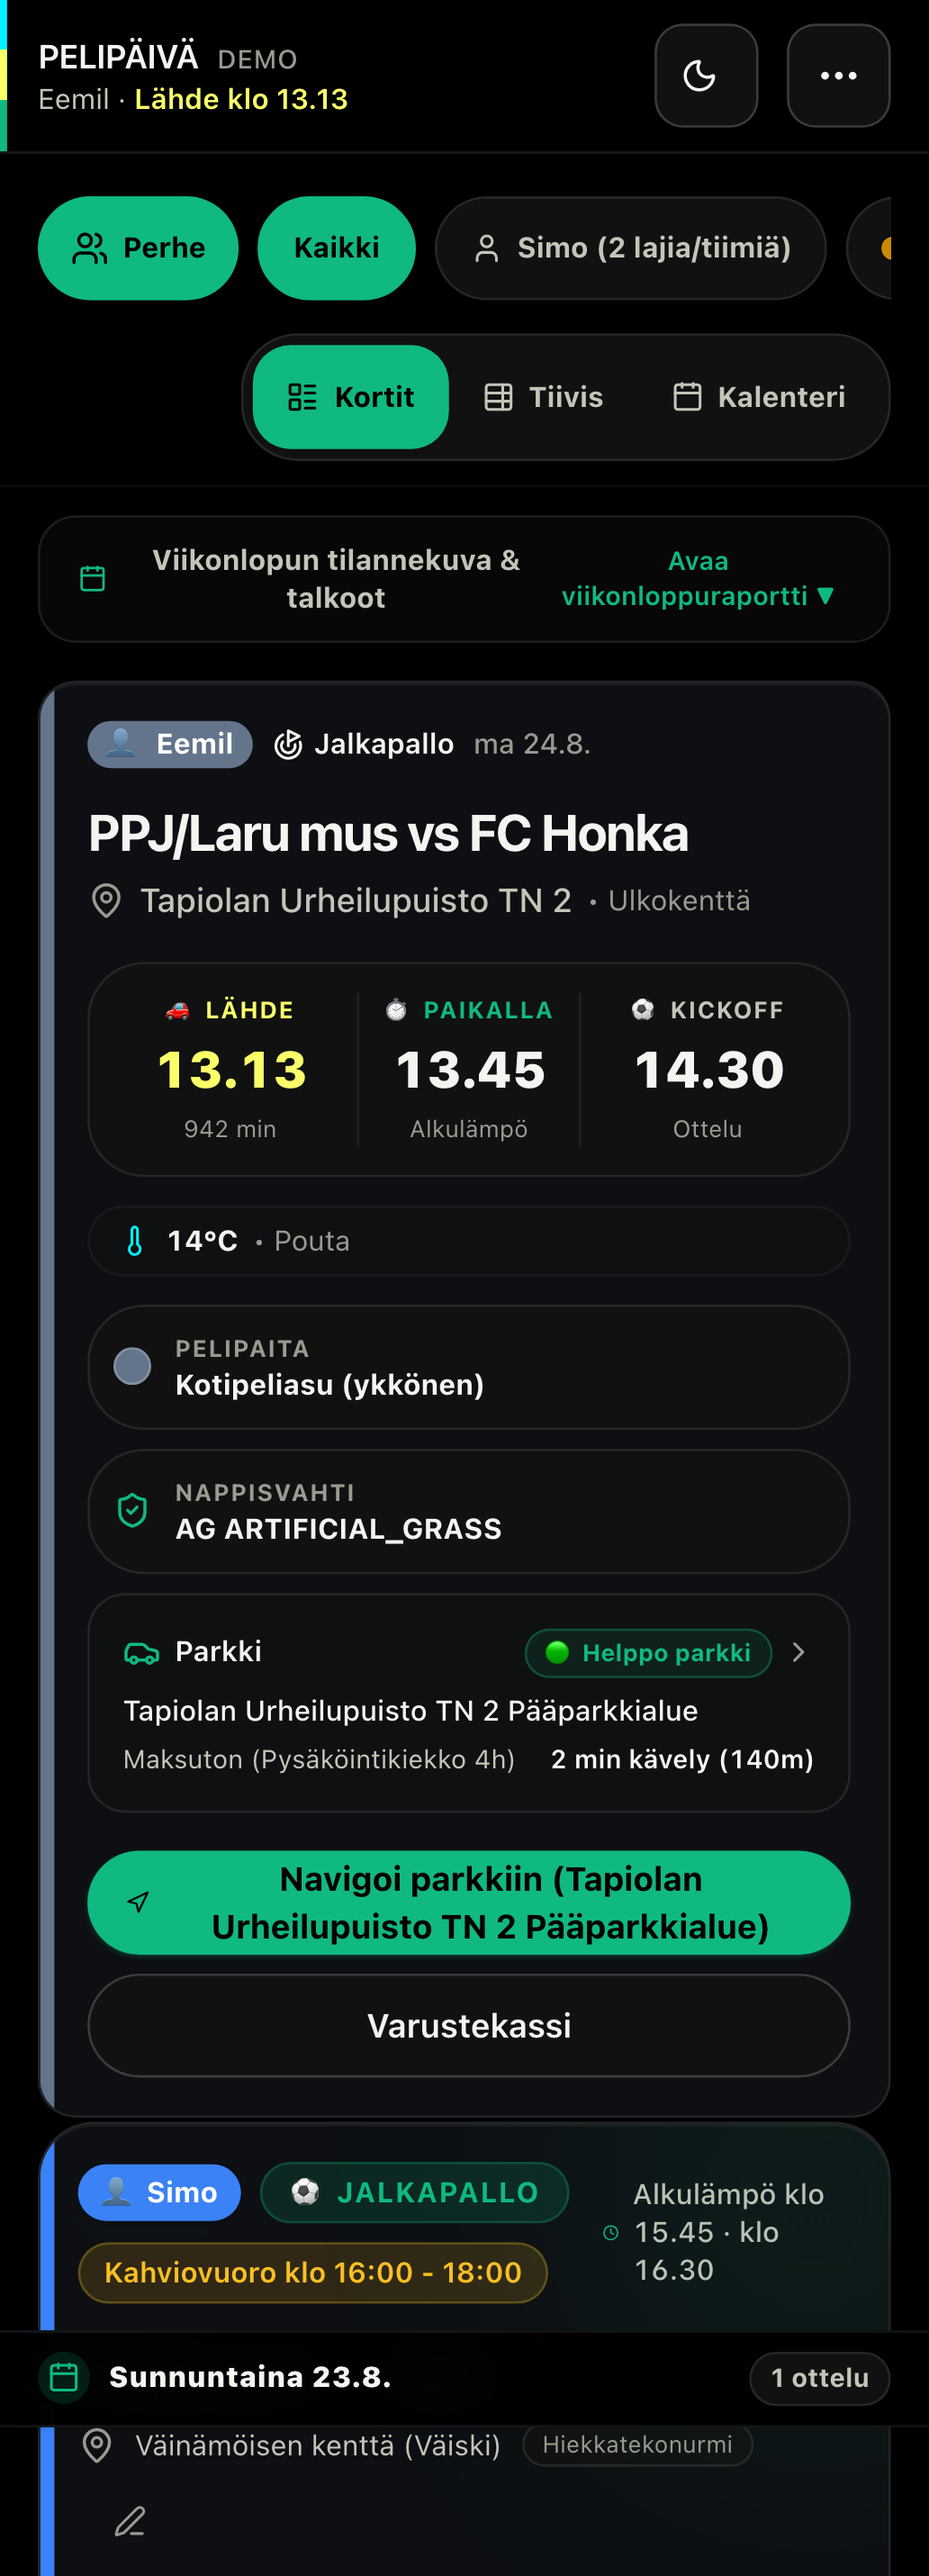
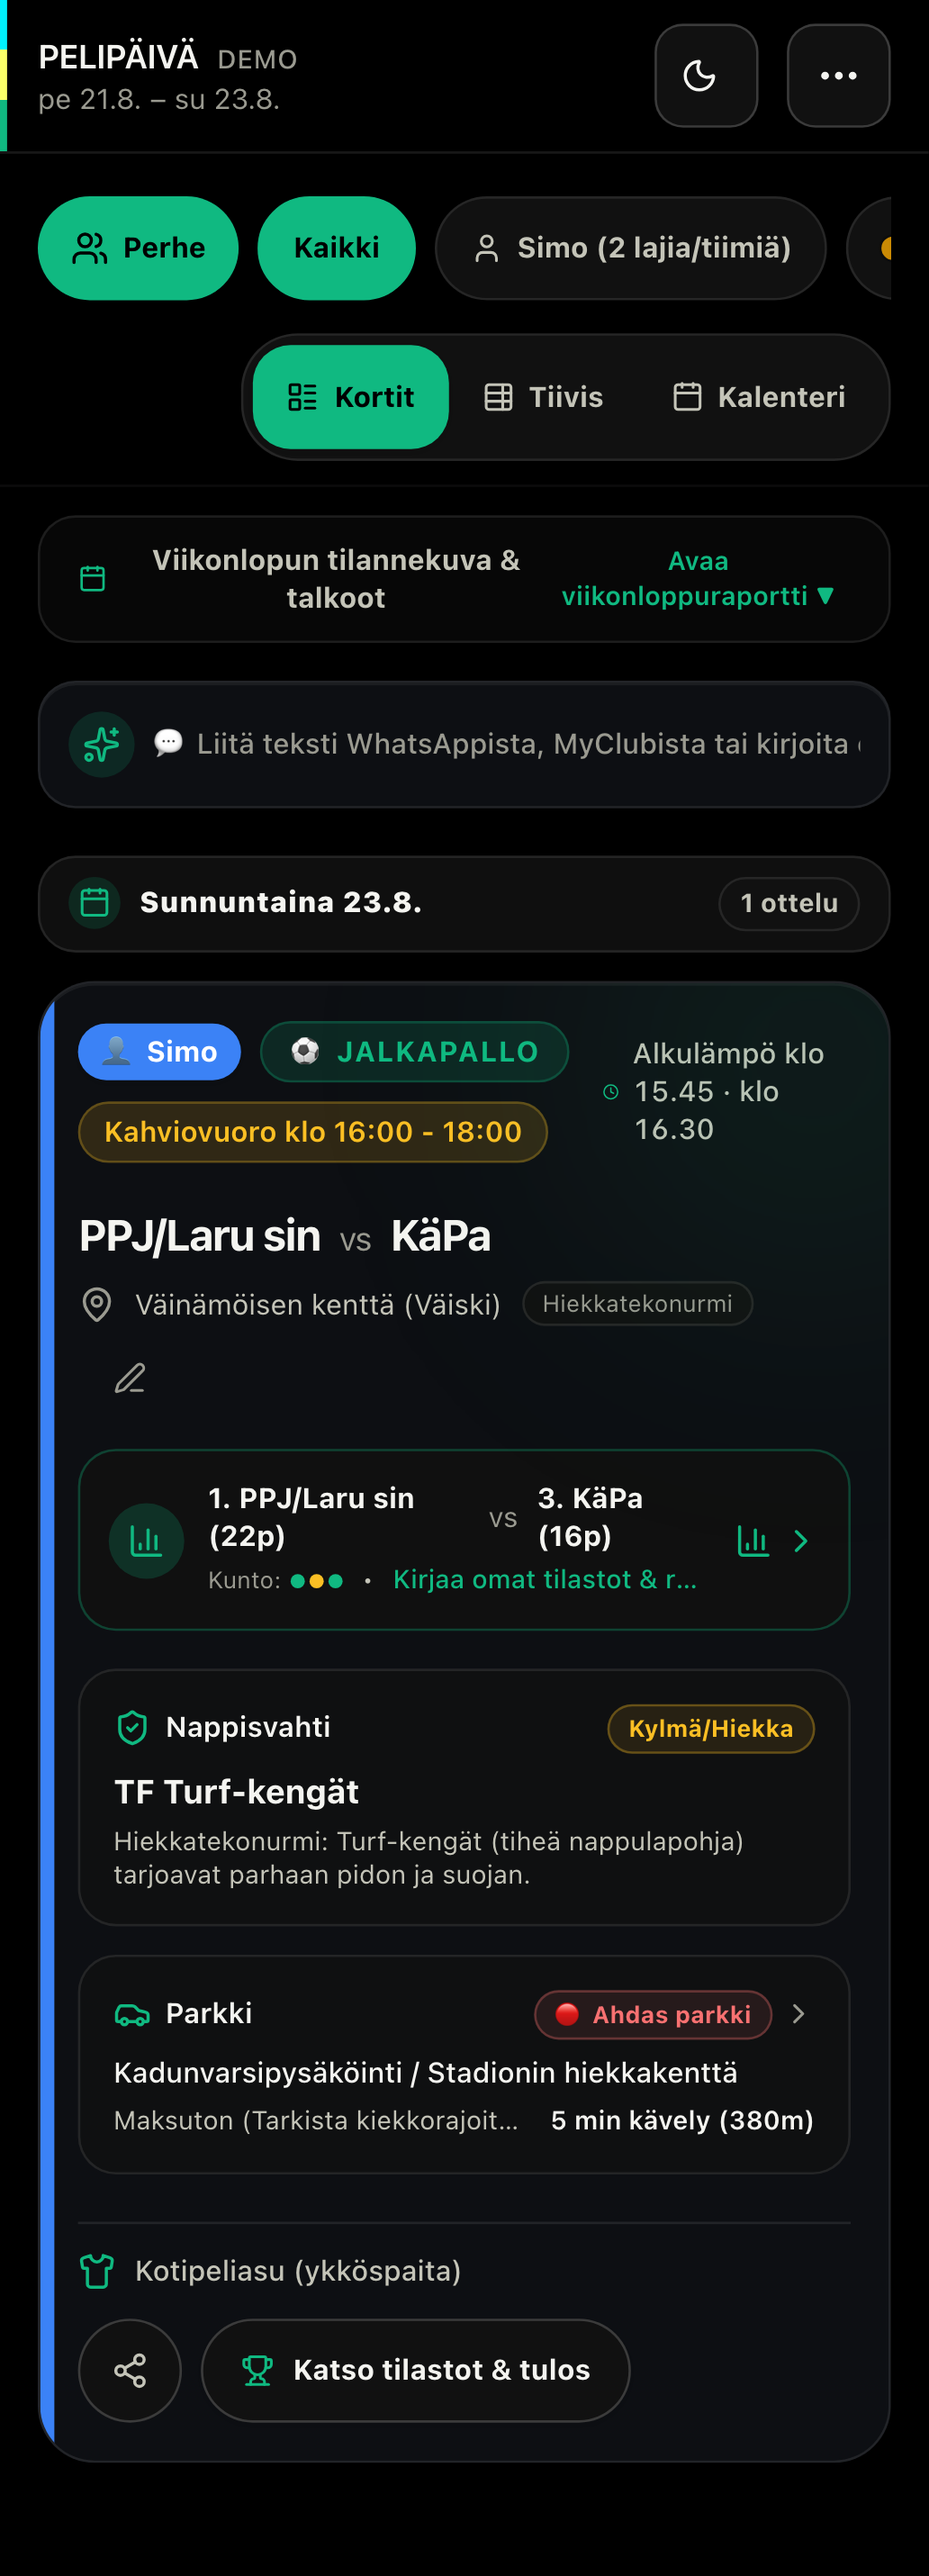
fix(quality): resolve multi-team conflict detection, profile filtering, tournament stages, and localized UI badges

diff --git a/src/lib/agents/conflictAgent.ts b/src/lib/agents/conflictAgent.ts
@@ -20,7 +20,7 @@ export function conflictAgent(events: MatchdayEvent[], profiles: PlayerProfile[]
     const a = upcoming[i]!;
     for (let j = i + 1; j < upcoming.length; j++) {
       const b = upcoming[j]!;
-      if (a.profileId === b.profileId) continue;
+      if (a.id === b.id) continue;
 
       const sameVenue = a.venue.normalizedName === b.venue.normalizedName || a.venue.name === b.venue.name;
       const drive = estimateDriveMinutes(
@@ -31,12 +31,15 @@ export function conflictAgent(events: MatchdayEvent[], profiles: PlayerProfile[]
       );
       const nameA = childName(a, profiles);
       const nameB = childName(b, profiles);
+      const isSameChild = nameA.toLowerCase() === nameB.toLowerCase();
 
       // Presence window is warmup → final whistle, not just kickoff → end.
       const overlap = overlapMinutes(a.warmupTime, a.endTime, b.warmupTime, b.endTime);
 
-      if (overlap > 0 && !sameVenue) {
-        const severity = drive > 25 || overlap > 40 ? 'critical' : 'warn';
+      if (overlap > 0) {
+        if (sameVenue && !isSameChild) continue;
+
+        const severity = isSameChild || drive > 25 || overlap > 40 ? 'critical' : 'warn';
         conflicts.push({
           id: `c-${a.id}-${b.id}`,
           severity,
@@ -47,10 +50,13 @@ export function conflictAgent(events: MatchdayEvent[], profiles: PlayerProfile[]
           venueA: a.venue.name,
           venueB: b.venue.name,
           overlapMinutes: overlap,
-          travelMinutesEstimate: drive,
-          message: `Päällekkäisyys: ${nameA} (${a.venue.name}) ja ${nameB} (${b.venue.name}) päällekkäin ${overlap} min — siirtymä ~${drive} min.`,
-          suggestedFix:
-            severity === 'critical'
+          travelMinutesEstimate: sameVenue ? 0 : drive,
+          message: isSameChild
+            ? `Päällekkäisyys: ${nameA} on merkitty kahteen peliin samaan aikaan (${a.venue.name} & ${b.venue.name}) päällekkäin ${overlap} min.`
+            : `Päällekkäisyys: ${nameA} (${a.venue.name}) ja ${nameB} (${b.venue.name}) päällekkäin ${overlap} min — siirtymä ~${drive} min.`,
+          suggestedFix: isSameChild
+            ? `Ilmoita valmentajalle valinta kumpaan peliin ${nameA} osallistuu.`
+            : severity === 'critical'
               ? 'Kaksi kuskia. Sovi kummankin lapsen kyyti etukäteen; älä yritä ehtiä molempiin.'
               : 'Yksi vanhempi per kenttä. Toinen hakee, toinen vie — vaihto ei ehdi.'
         });
@@ -74,7 +80,7 @@ export function conflictAgent(events: MatchdayEvent[], profiles: PlayerProfile[]
 
         conflicts.push({
           id: `c-${a.id}-${b.id}-tight`,
-          severity: isDriveImpossible ? 'critical' : 'warn',
+          severity: isDriveImpossible || isSameChild ? 'critical' : 'warn',
           childA: nameA,
           childB: nameB,
           eventAId: a.id,
@@ -83,12 +89,16 @@ export function conflictAgent(events: MatchdayEvent[], profiles: PlayerProfile[]
           venueB: b.venue.name,
           overlapMinutes: 0,
           travelMinutesEstimate: drive,
-          message: isDriveImpossible
-            ? `Ajoaika ei riitä: ${nameA} (${a.venue.name}) ja ${nameB} (${b.venue.name}) — siirtymäaikaa ${Math.round(gapKickoff)} min, ajo ~${drive} min.`
-            : `${nameA} lopettaa ${a.venue.name}, ${nameB} alkulämpö ${b.venue.name} — väli ${Math.max(0, Math.round(gapWarmup))} min, ajo ~${drive} min.`,
-          suggestedFix: isDriveImpossible
-            ? 'Kaksi kuskia tarvitaan. Yksi auto ei ehdi siirtymää pelien välillä.'
-            : 'Lähde suoraan kentältä. Pakkaa kakkosen kassi autoon valmiiksi.'
+          message: isSameChild
+            ? `${nameA}: siirtymäaika (${Math.max(0, Math.round(gapKickoff))} min) ei riitä siirtymään ${a.venue.name} ➔ ${b.venue.name} (ajo ~${drive} min).`
+            : isDriveImpossible
+              ? `Ajoaika ei riitä: ${nameA} (${a.venue.name}) ja ${nameB} (${b.venue.name}) — siirtymäaikaa ${Math.round(gapKickoff)} min, ajo ~${drive} min.`
+              : `${nameA} lopettaa ${a.venue.name}, ${nameB} alkulämpö ${b.venue.name} — väli ${Math.max(0, Math.round(gapWarmup))} min, ajo ~${drive} min.`,
+          suggestedFix: isSameChild
+            ? `Aikataulu on liian tiukka samalle pelaajalle. Varoita valmentajaa myöhästymisestä.`
+            : isDriveImpossible
+              ? 'Kaksi kuskia tarvitaan. Yksi auto ei ehdi siirtymää pelien välillä.'
+              : 'Lähde suoraan kentältä. Pakkaa kakkosen kassi autoon valmiiksi.'
         });
       }
     }

diff --git a/src/App.tsx b/src/App.tsx
@@ -365,9 +365,14 @@ export const App: React.FC = () => {
     [filteredEvents, activeProfiles]
   );
 
+  const otherCardsEvents = useMemo(
+    () => filteredEvents.filter((e) => e.id !== snapshot.nextEvent?.id),
+    [filteredEvents, snapshot.nextEvent?.id]
+  );
+
   const eventsGroupedByDay = useMemo(() => {
     const map = new Map<string, { dateStr: string; label: string; events: MatchdayEvent[] }>();
-    for (const ev of filteredEvents) {
+    for (const ev of otherCardsEvents) {
       const d = new Date(ev.startTime);
       const key = d.toISOString().split('T')[0] || '';
       if (!map.has(key)) {
@@ -382,7 +387,7 @@ export const App: React.FC = () => {
       map.get(key)!.events.push(ev);
     }
     return Array.from(map.values());
-  }, [filteredEvents]);
+  }, [otherCardsEvents]);
 
   const handleImportCalendar = async (
     playerName: string,
@@ -859,8 +864,8 @@ export const App: React.FC = () => {
               <div className="flex flex-col gap-6 pb-4">
                 {eventsGroupedByDay.map((dayGroup) => (
                   <div key={dayGroup.dateStr} className="flex flex-col gap-3">
-                    {/* Sticky Day Section Header */}
-                    <div className="sticky top-14 z-20 -mx-4 px-4 py-2 bg-canvas/95 backdrop-blur-md border-y border-border-subtle/80 flex items-center justify-between shadow-xs">
+                    {/* Day Section Header */}
+                    <div className="py-2 px-3 rounded-2xl bg-surface-elevated/90 backdrop-blur-md border border-border-subtle flex items-center justify-between shadow-xs">
                       <div className="flex items-center gap-2">
                         <div className="p-1 rounded-md bg-pitch/15 text-pitch">
                           <CalendarIcon className="w-3.5 h-3.5" />
@@ -869,7 +874,7 @@ export const App: React.FC = () => {
                           {dayGroup.label}
                         </span>
                       </div>
-                      <span className="text-[11px] font-bold px-2 py-0.5 rounded-full bg-surface-elevated text-text-secondary border border-border-subtle">
+                      <span className="text-[11px] font-bold px-2 py-0.5 rounded-full bg-surface text-text-secondary border border-border-subtle">
                         {dayGroup.events.length} {dayGroup.events.length === 1 ? 'ottelu' : 'ottelua'}
                       </span>
                     </div>

diff --git a/src/components/TournamentWeekendPanel.tsx b/src/components/TournamentWeekendPanel.tsx
@@ -119,6 +119,7 @@ export const TournamentWeekendPanel: React.FC<TournamentWeekendPanelProps> = ({ 
                     {matches.map((m, idx) => {
                       const start = new Date(m.startTime);
                       const end = new Date(m.endTime);
+                      const dayLabel = start.toLocaleDateString('fi-FI', { weekday: 'short', day: 'numeric', month: 'numeric' });
                       const timeStr = `${start.toLocaleTimeString('fi-FI', { hour: '2-digit', minute: '2-digit' })}–${end.toLocaleTimeString('fi-FI', { hour: '2-digit', minute: '2-digit' })}`;
                       const isPast = end.getTime() < Date.now();
                       const isCurrent = start.getTime() <= Date.now() && Date.now() <= end.getTime();
@@ -136,18 +137,21 @@ export const TournamentWeekendPanel: React.FC<TournamentWeekendPanelProps> = ({ 
                         >
                           <div className="flex items-center justify-between gap-2">
                             <div className="flex items-center gap-1.5 flex-wrap">
+                              <span className="font-bold text-[10px] uppercase tracking-wider px-1.5 py-0.5 rounded bg-surface border border-border-subtle text-pitch">
+                                {dayLabel}
+                              </span>
                               {m.matchNumber && (
                                 <span className="font-mono text-[10px] font-bold px-1.5 py-0.2 rounded bg-surface border border-border-subtle text-text-muted">
                                   #{m.matchNumber}
                                 </span>
                               )}
                               {m.stage && (
-                                <span className="text-[10px] font-bold text-pitch">
-                                  {m.stage}
+                                <span className="text-[10px] font-bold text-text-secondary">
+                                  • {m.stage}
                                 </span>
                               )}
                               <span className="font-mono text-[11px] font-bold text-text-primary">
-                                {timeStr}
+                                klo {timeStr}
                               </span>
                             </div>
 

diff --git a/src/components/TimelineCalendarView.tsx b/src/components/TimelineCalendarView.tsx
@@ -23,6 +23,31 @@ interface TimelineCalendarViewProps {
   onClearFilter?: () => void;
 }
 
+function surfaceLabel(surface?: string, indoor?: boolean): string | null {
+  if (!surface) return null;
+  if (indoor) {
+    if (surface === 'indoor_parquet') return 'Parketti';
+    if (surface === 'indoor_synthetic') return 'Sisäalusta';
+    return 'Sisähalli';
+  }
+  switch (surface) {
+    case 'artificial_turf_3g':
+      return 'Tekonurmi 3G';
+    case 'sand_artificial_turf':
+      return 'Hiekkatekonurmi';
+    case 'natural_grass':
+      return 'Luonnonnurmi';
+    case 'indoor_parquet':
+      return 'Parketti';
+    case 'indoor_synthetic':
+      return 'Sisäalusta';
+    case 'gravel':
+      return 'Hiekka';
+    default:
+      return surface.replace(/_/g, ' ');
+  }
+}
+
 export const TimelineCalendarView: React.FC<TimelineCalendarViewProps> = ({
   events,
   profiles,
@@ -232,9 +257,9 @@ export const TimelineCalendarView: React.FC<TimelineCalendarViewProps> = ({
                       <div className="flex items-center gap-1.5 truncate min-w-0">
                         <MapPin className="w-3.5 h-3.5 text-text-muted shrink-0" />
                         <span className="truncate font-medium">{ev.venue.name}</span>
-                        {ev.venue.surface && (
+                        {surfaceLabel(ev.venue.surface, ev.venue.isIndoor) && (
                           <span className="text-[10px] text-text-muted shrink-0">
-                            • {ev.venue.surface}
+                            • {surfaceLabel(ev.venue.surface, ev.venue.isIndoor)}
                           </span>
                         )}
                       </div>

diff --git a/src/components/HeroMatchCard.tsx b/src/components/HeroMatchCard.tsx
@@ -213,11 +213,15 @@ export const HeroMatchCard: React.FC<HeroMatchCardProps> = ({
             <div className="min-w-0 flex-1">
               <div className="text-[10px] font-bold text-text-muted uppercase tracking-wider">Nappisvahti</div>
               <div className="text-xs font-bold text-text-primary truncate">
-                {event.briefing?.gearAndPackingAdvice.footwear
-                  ? event.briefing.gearAndPackingAdvice.footwear.replace('_', ' ')
-                  : event.venue.isIndoor
-                    ? 'Sisäpelikengät'
-                    : 'AG-Nappikset'}
+                {(() => {
+                  const fw = event.briefing?.gearAndPackingAdvice.footwear;
+                  if (fw === 'AG_ARTIFICIAL_GRASS') return 'Tekonurmikengät (AG)';
+                  if (fw === 'FG_FIRM_GROUND') return 'Nappikset (FG)';
+                  if (fw === 'SG_SOFT_GROUND') return 'Rautatapit (SG)';
+                  if (fw === 'TF_TURF_SHOES') return 'Turf-kengät (TF)';
+                  if (fw === 'INDOOR_NON_MARKING') return 'Sisäpelikengät';
+                  return event.venue.isIndoor ? 'Sisäpelikengät' : 'Tekonurmikengät (AG)';
+                })()}
               </div>
             </div>
           </div>

diff --git a/src/components/MatchStatsModal.tsx b/src/components/MatchStatsModal.tsx
@@ -1,4 +1,4 @@
-import React, { useState } from 'react';
+import React, { useState, useEffect } from 'react';
 import { motion, AnimatePresence } from 'motion/react';
 import {
   X,
@@ -61,6 +61,17 @@ export const MatchStatsModal: React.FC<MatchStatsModalProps> = ({
   const [logNotes, setLogNotes] = useState<string>(playerLog?.notes ?? '');
   const [matchScoreInput, setMatchScoreInput] = useState<string>(score || `${stats.liveScore?.home ?? 0}–${stats.liveScore?.away ?? 0}`);
   const [isSavedFeedback, setIsSavedFeedback] = useState<boolean>(false);
+
+  useEffect(() => {
+    setLogGoals(playerLog?.goals ?? 0);
+    setLogAssists(playerLog?.assists ?? 0);
+    setLogPoints(playerLog?.points ?? 0);
+    setLogSaves(playerLog?.saves ?? 0);
+    setLogMinutes(playerLog?.minutesPlayed ?? (sport === 'floorball' ? 45 : 60));
+    setLogStarAward(playerLog?.starPlayerAward ?? false);
+    setLogNotes(playerLog?.notes ?? '');
+    setMatchScoreInput(score || `${stats.liveScore?.home ?? 0}–${stats.liveScore?.away ?? 0}`);
+  }, [playerLog, score, stats, sport]);
 
   const handleSaveLog = () => {
     const updatedLog: PlayerMatchLog = {

diff --git a/src/lib/agents/tournamentAgent.ts b/src/lib/agents/tournamentAgent.ts
@@ -7,10 +7,10 @@ export function tournamentAgent(events: MatchdayEvent[], profiles: PlayerProfile
   const groups = new Map<string, MatchdayEvent[]>();
 
   for (const ev of events) {
-    const day = helsinkiDateISO(new Date(ev.startTime));
     const explicit = ev.eventType === 'tournament';
+    const day = helsinkiDateISO(new Date(ev.startTime));
     const key = explicit
-      ? `${ev.profileId}|${ev.tournamentName || 'turnaus'}|${day}`
+      ? `${ev.profileId}|${(ev.tournamentName || 'turnaus').toLowerCase().trim()}`
       : `${ev.profileId}|${ev.venue.normalizedName || ev.venue.name}|${day}`;
     const list = groups.get(key) || [];
     list.push(ev);
@@ -30,6 +30,7 @@ export function tournamentAgent(events: MatchdayEvent[], profiles: PlayerProfile
     const first = sorted[0]!;
     const last = sorted[sorted.length - 1]!;
     const profile = profiles.find((p) => p.id === first.profileId);
+    if (!profile) continue;
     const recovery =
       sorted.length >= 2
         ? Math.round(

diff --git a/src/components/MultiProfileHeader.tsx b/src/components/MultiProfileHeader.tsx
@@ -19,11 +19,12 @@ export const MultiProfileHeader: React.FC<MultiProfileHeaderProps> = ({
   onAddProfile,
   onOpenFamilyManage
 }) => {
-  // Group profiles by playerName
+  // Group profiles by playerName (normalized casing)
   const playerGroups = React.useMemo(() => {
     const map = new Map<string, PlayerProfile[]>();
     for (const p of profiles) {
-      const name = p.playerName || 'Pelaaja';
+      const raw = (p.playerName || 'Pelaaja').trim();
+      const name = raw.charAt(0).toUpperCase() + raw.slice(1);
       if (!map.has(name)) map.set(name, []);
       map.get(name)!.push(p);
     }

diff --git a/src/lib/agents/planner.ts b/src/lib/agents/planner.ts
@@ -35,7 +35,7 @@ function buildDayStrips(
 
   return days.map((date) => {
     const dayEvents = events
-      .filter((e) => helsinkiDateISO(new Date(e.startTime)) === date)
+      .filter((e) => helsinkiDateISO(new Date(e.startTime)) === date && profiles.some((p) => p.id === e.profileId))
       .sort((a, b) => new Date(a.startTime).getTime() - new Date(b.startTime).getTime());
     const weekday = formatFiWeekday(date);
     const label = new Date(`${date}T12:00:00+03:00`).toLocaleDateString('fi-FI', {
